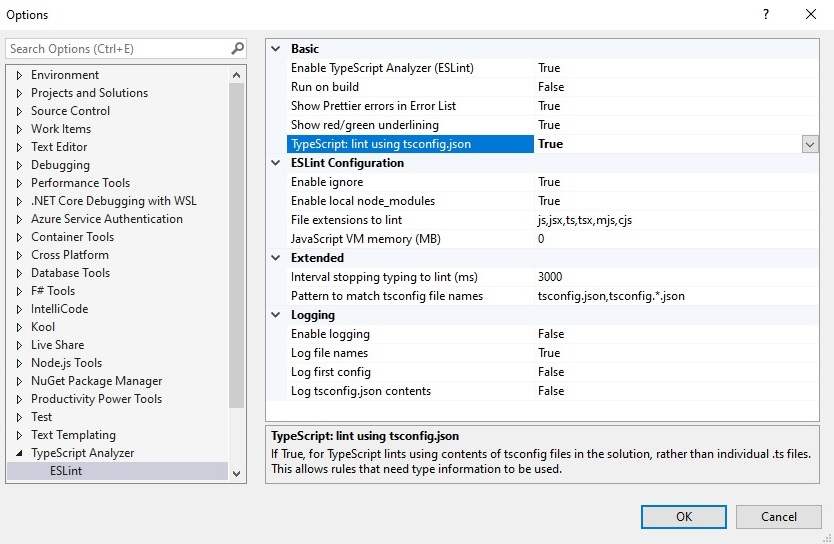
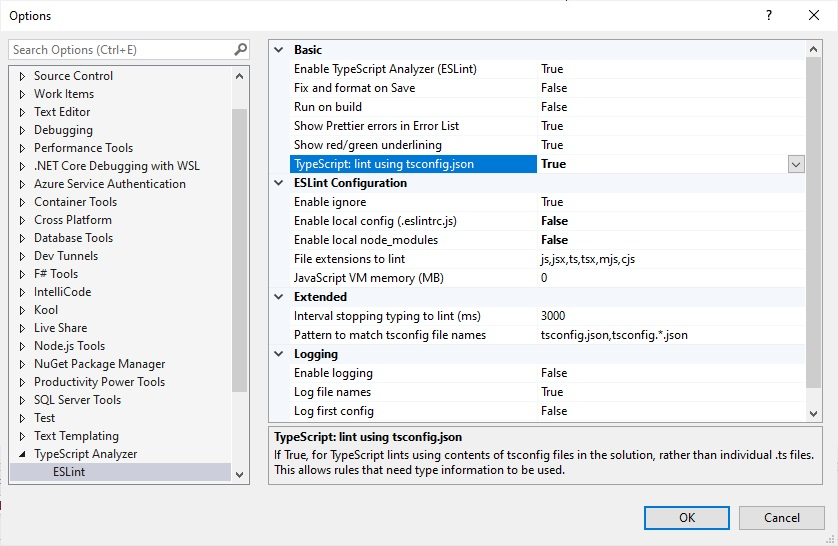
Update walkthrough in docs for recent changes

Changed region(s): [[0.0, 0.0, 0.9976, 1.0]]

diff --git a/docs/walkthrough.md b/docs/walkthrough.md
@@ -38,7 +38,7 @@ Linting errors and warnings in both projects are fixed where this is possible.  
 
 ## Stop a Build if There Are Linting Errors
 
-Hit ctrl-z to undo the last change in app2.ts.  You should again get a 'no-var' linting error.  Go to Tools/Options/TypeScript Analyzer (ESLint) and change the 'Run on Build' option to true:
+Hit ctrl-z to undo the last change in app2.ts.  You should again get a 'no-var' linting error.  Go to Tools/Options/TypeScript Analyzer/ESLint and change the 'Run on Build' option to true:
 
 ![walkthrough6](assets\images\walkthrough6.jpg)
 
@@ -64,11 +64,11 @@ Reset your configuration and options to the default by selecting Tools/TypeScrip
 
 ![walkthrough10](assets\images\walkthrough10.jpg)
 
-Go again to Tools/Options/TypeScript Analyzer (ESLint) and change the 'TypeScript: lint using tsconfig.json' option to true.  This allows rules that need type information to be used.
+Go again to Tools/Options/TypeScript Analyzer (ESLint) and change the 'TypeScript: lint using tsconfig.json' option to true.  This allows rules that need type information to be used.  If you are using Visual Studio 2022 after v17.4 then you will need to set both 'Enable local config (.eslintrc.js)' and 'Enable local node_modules' back to False as well.
 
 ![walkthrough11](assets\images\walkthrough11.jpg)
 
-Click OK.  Go to your .eslintrc.js configuration file, find the unbound-method rule.  This is commented out because by default the 'lint using tsconfig.json' setting is set to false.  Comment the rule in:
+Click OK.  Go to your .eslintrc.js configuration file, find the unbound-method rule.  This is commented out because by default the 'lint using tsconfig.json' setting is set to false.  Comment the rule in and save the changed .eslintrc.js file:
 
 ![walkthrough12](assets\images\walkthrough12.jpg)
 
